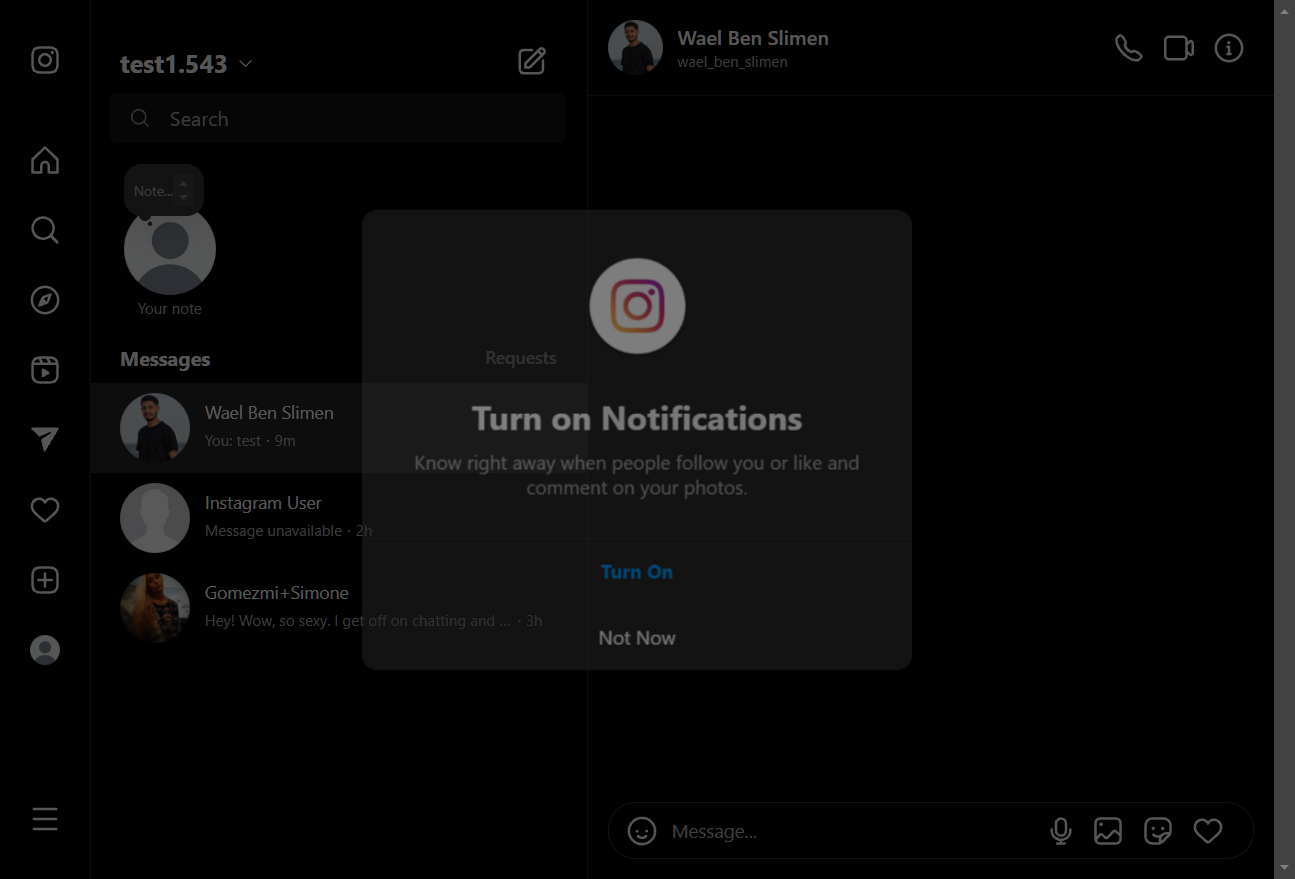
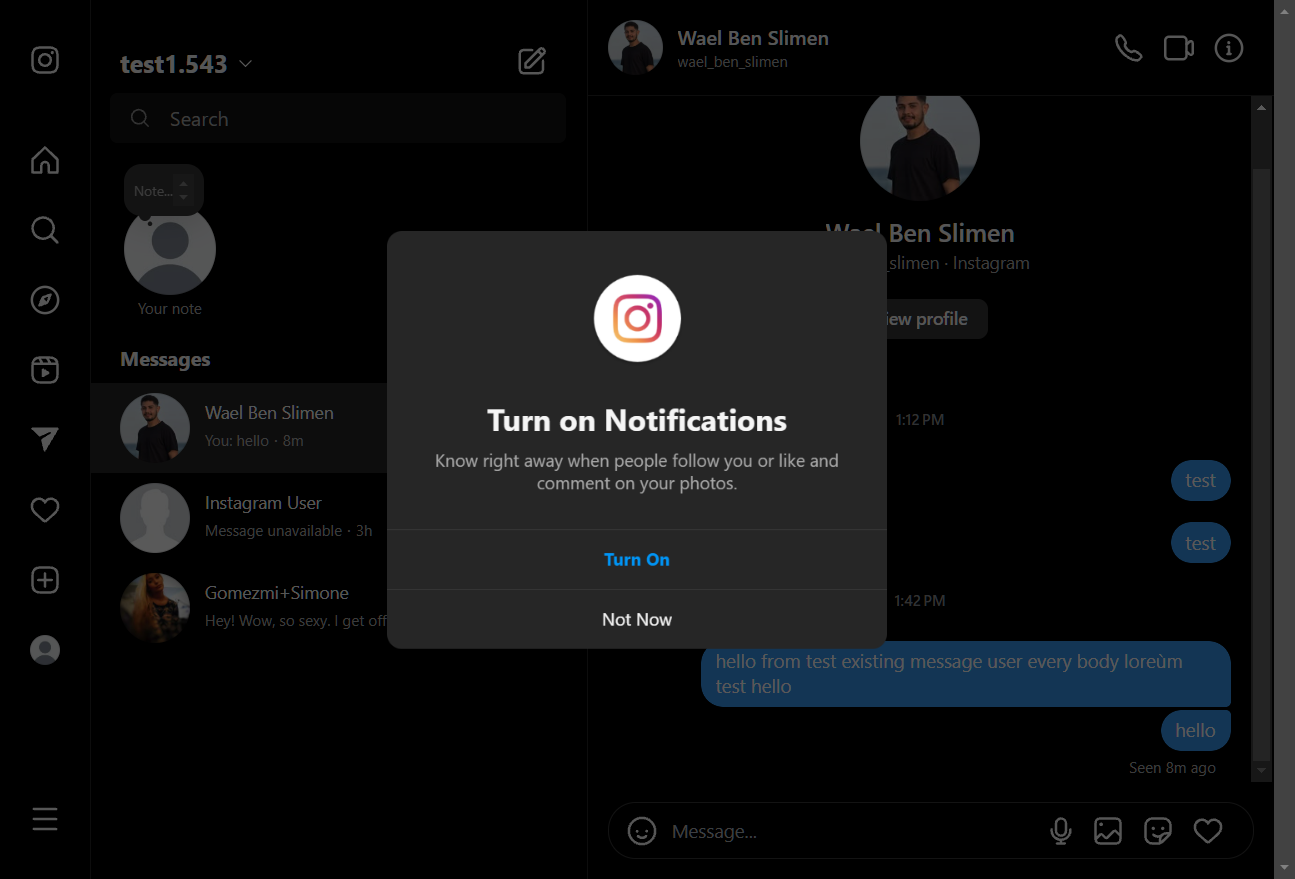
adding dm model

diff --git a/src/client/Instagram.ts b/src/client/Instagram.ts
@@ -258,120 +258,6 @@ async function sendDirectMessage(page: any, username: string, message: string) {
   }
 }
 
-async function runInstagram() {
-  const server = new Server({ port: 8000 });
-  await server.listen();
-  const proxyUrl = `http://localhost:8000`;
-  const browser = await puppeteer.launch({
-    headless: false,
-    args: [`--proxy-server=${proxyUrl}`],
-  });
-
-  const page = await browser.newPage();
-  const cookiesPath = "./cookies/Instagramcookies.json";
-
-  const checkCookies = await Instagram_cookiesExist();
-  logger.info(`Checking cookies existence: ${checkCookies}`);
-
-  if (checkCookies) {
-    const cookies = await loadCookies(cookiesPath);
-    await page.setCookie(...cookies);
-    logger.info("Cookies loaded and set on the page.");
-
-    await page.goto("https://www.instagram.com/", {
-      waitUntil: "networkidle2",
-    });
-
-    const isLoggedIn = await page.$("a[href='/direct/inbox/']");
-    if (isLoggedIn) {
-      logger.info("Login verified with cookies.");
-    } else {
-      logger.warn("Cookies invalid or expired. Logging in again...");
-      await loginWithCredentials(page, browser);
-    }
-  } else {
-    await loginWithCredentials(page, browser);
-  }
-
-  // Create readline interface for user input
-  const rl = readline.createInterface({
-    input: process.stdin,
-    output: process.stdout,
-  });
-
-  // Ask user what they want to do
-  const answer = await new Promise<string>((resolve) => {
-    rl.question(
-      "What would you like to do?\n1. Interact with posts\n2. Send a direct message\nEnter your choice (1 or 2): ",
-      resolve
-    );
-  });
-
-  if (answer === "2") {
-    const username = await new Promise<string>((resolve) => {
-      rl.question("Enter the username to send message to: ", resolve);
-    });
-
-    const message = await new Promise<string>((resolve) => {
-      rl.question("Enter your message: ", resolve);
-    });
-
-    try {
-      await sendDirectMessage(page, username, message);
-    } catch (error) {
-      logger.error("Failed to send message:", error);
-    }
-    rl.close();
-    await browser.close();
-    return;
-  }
-
-  rl.close();
-
-  // Continue with the original post interaction logic
-  await page.goto("https://www.instagram.com/");
-
-  // Handle potential notification popup before interacting with posts
-  await handleNotificationPopup(page);
-
-  while (true) {
-    await interactWithPosts(page);
-    logger.info("Iteration complete, waiting 30 seconds before refreshing...");
-    await delay(30000);
-    try {
-      await page.reload({ waitUntil: "networkidle2" });
-    } catch (e) {
-      logger.warn("Error reloading page, continuing iteration: " + e);
-    }
-
-    // Handle potential notification popup after reload
-    await handleNotificationPopup(page);
-  }
-}
-
-const loginWithCredentials = async (page: any, browser: Browser) => {
-  try {
-    await page.goto("https://www.instagram.com/accounts/login/");
-    await page.waitForSelector('input[name="username"]');
-
-    // Fill out the login form
-    await page.type('input[name="username"]', IGusername); // Replace with your username
-    await page.type('input[name="password"]', IGpassword); // Replace with your password
-    await page.click('button[type="submit"]');
-
-    // Wait for navigation after login
-    await page.waitForNavigation();
-
-    // Save cookies after login
-    const cookies = await browser.cookies();
-    // logger.info("Saving cookies after login...",cookies);
-    await saveCookies("./cookies/Instagramcookies.json", cookies);
-  } catch (error) {
-    // logger.error("Error logging in with credentials:", error);
-    logger.error("Error logging in with credentials:");
-  }
-};
-
 async function interactWithPosts(page: any) {
   let postIndex = 1; // Start with the first post
   const maxPosts = 20; // Limit to prevent infinite scrolling
@@ -492,5 +378,114 @@ async function interactWithPosts(page: any) {
     }
   }
 }
+
+async function runInstagram() {
+  const server = new Server({ port: 8000 });
+  await server.listen();
+  const proxyUrl = `http://localhost:8000`;
+  const browser = await puppeteer.launch({
+    headless: false,
+    args: [`--proxy-server=${proxyUrl}`],
+  });
+
+  const page = await browser.newPage();
+  const cookiesPath = "./cookies/Instagramcookies.json";
+
+  const checkCookies = await Instagram_cookiesExist();
+  logger.info(`Checking cookies existence: ${checkCookies}`);
+
+  if (checkCookies) {
+    const cookies = await loadCookies(cookiesPath);
+    await page.setCookie(...cookies);
+    logger.info("Cookies loaded and set on the page.");
+
+    await page.goto("https://www.instagram.com/", {
+      waitUntil: "networkidle2",
+    });
+
+    const isLoggedIn = await page.$("a[href='/direct/inbox/']");
+    if (isLoggedIn) {
+      logger.info("Login verified with cookies.");
+    } else {
+      logger.warn("Cookies invalid or expired. Logging in again...");
+      await loginWithCredentials(page, browser);
+    }
+  } else {
+    await loginWithCredentials(page, browser);
+  }
+
+  // Create readline interface for user input
+  const rl = readline.createInterface({
+    input: process.stdin,
+    output: process.stdout,
+  });
+
+  // Main loop for user interaction
+  while (true) {
+    const answer = await new Promise<string>((resolve) => {
+      rl.question(
+        "What would you like to do?\n1. Interact with posts\n2. Send a direct message\n3. Exit\nEnter your choice (1, 2, or 3): ",
+        resolve
+      );
+    });
+
+    if (answer === "1") {
+      await page.goto("https://www.instagram.com/");
+      await handleNotificationPopup(page);
+      await interactWithPosts(page);
+    } else if (answer === "2") {
+      const username = await new Promise<string>((resolve) => {
+        rl.question("Enter the username to send message to: ", resolve);
+      });
+
+      const message = await new Promise<string>((resolve) => {
+        rl.question("Enter your message: ", resolve);
+      });
+
+      try {
+        await sendDirectMessage(page, username, message);
+        logger.info("Message sent successfully.");
+      } catch (error) {
+        logger.error("Failed to send message:", error);
+      }
+    } else if (answer === "3") {
+      logger.info("Exiting.");
+      break; // Exit the while loop
+    } else {
+      console.log("Invalid choice. Please enter 1, 2, or 3.");
+    }
+  }
+
+  rl.close();
+  await browser.close();
+  await server.close(true); // Close the proxy server
+}
+
+const loginWithCredentials = async (page: any, browser: Browser) => {
+  try {
+    await page.goto("https://www.instagram.com/accounts/login/");
+    await page.waitForSelector('input[name="username"]');
+
+    // Fill out the login form
+    await page.type('input[name="username"]', IGusername);
+    await page.type('input[name="password"]', IGpassword);
+    await page.click('button[type="submit"]');
+
+    // Wait for navigation after login
+    await page.waitForNavigation();
+
+    // Save cookies after login
+    const cookies = await browser.cookies();
+    // logger.info("Saving cookies after login...",cookies);
+    await saveCookies("./cookies/Instagramcookies.json", cookies);
+
+    // Handle potential notification popup after successful login
+    await handleNotificationPopup(page);
+  } catch (error) {
+    // logger.error("Error logging in with credentials:", error);
+    logger.error("Error logging in with credentials:");
+    throw error; // Re-throw to indicate login failed
+  }
+};
 
 export { runInstagram };
